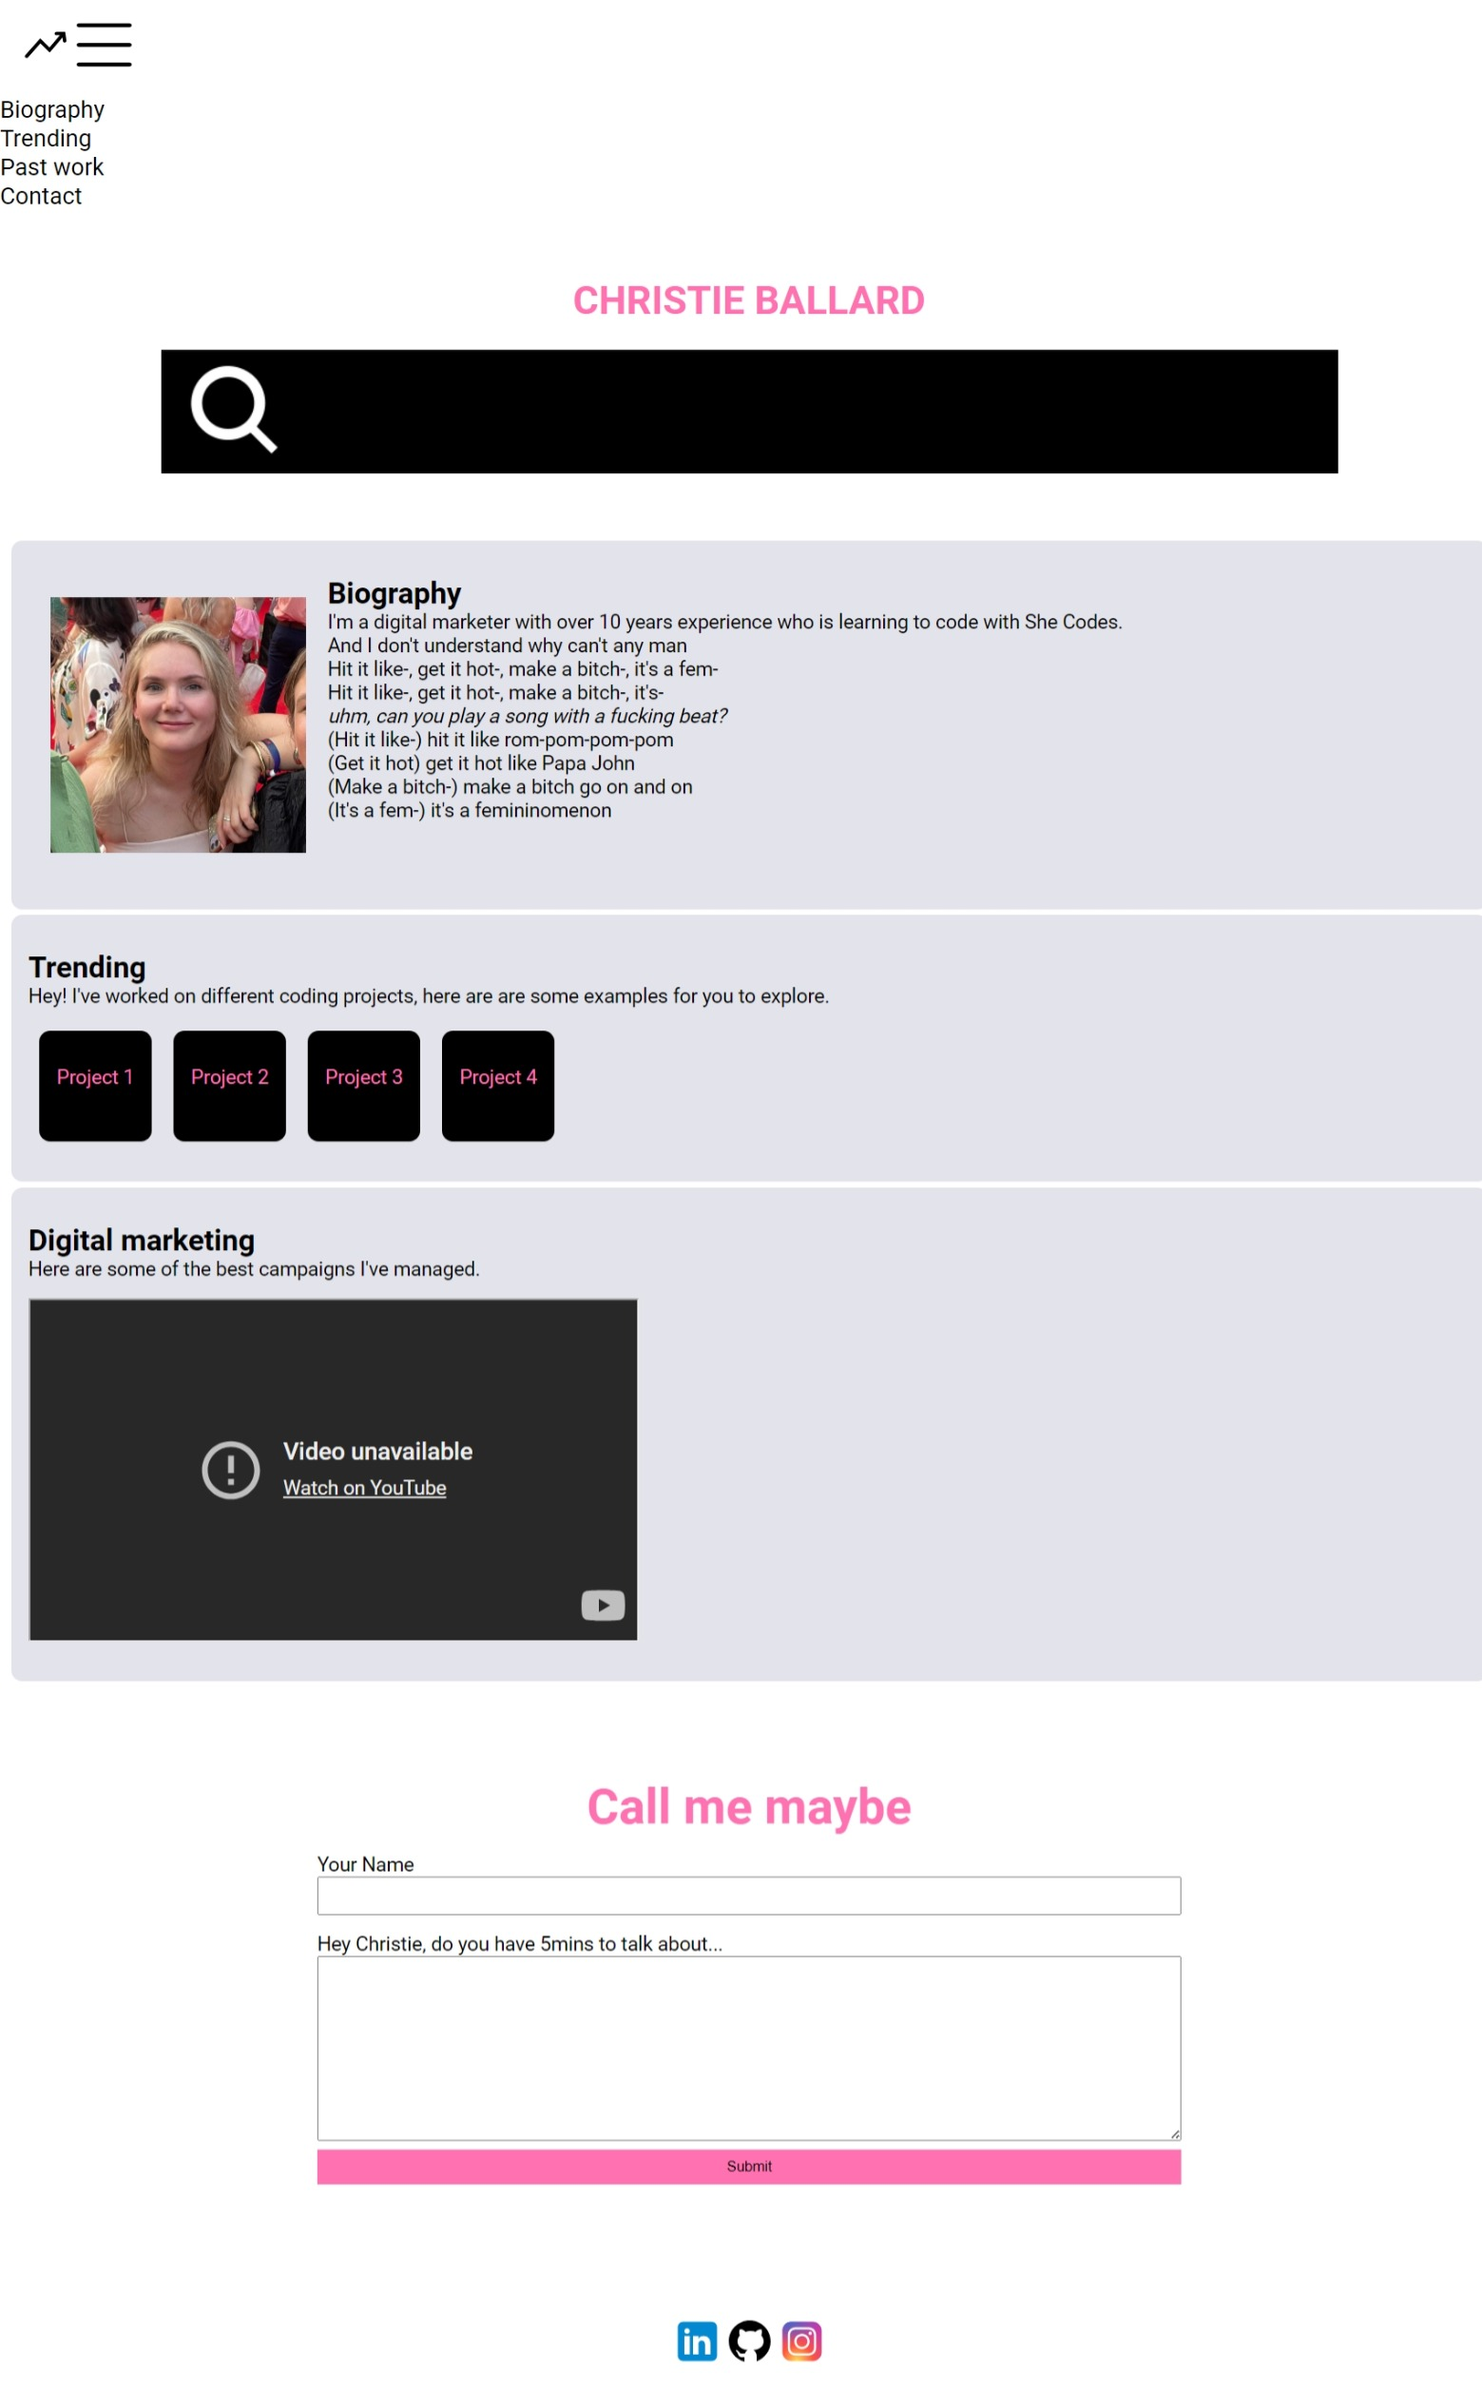
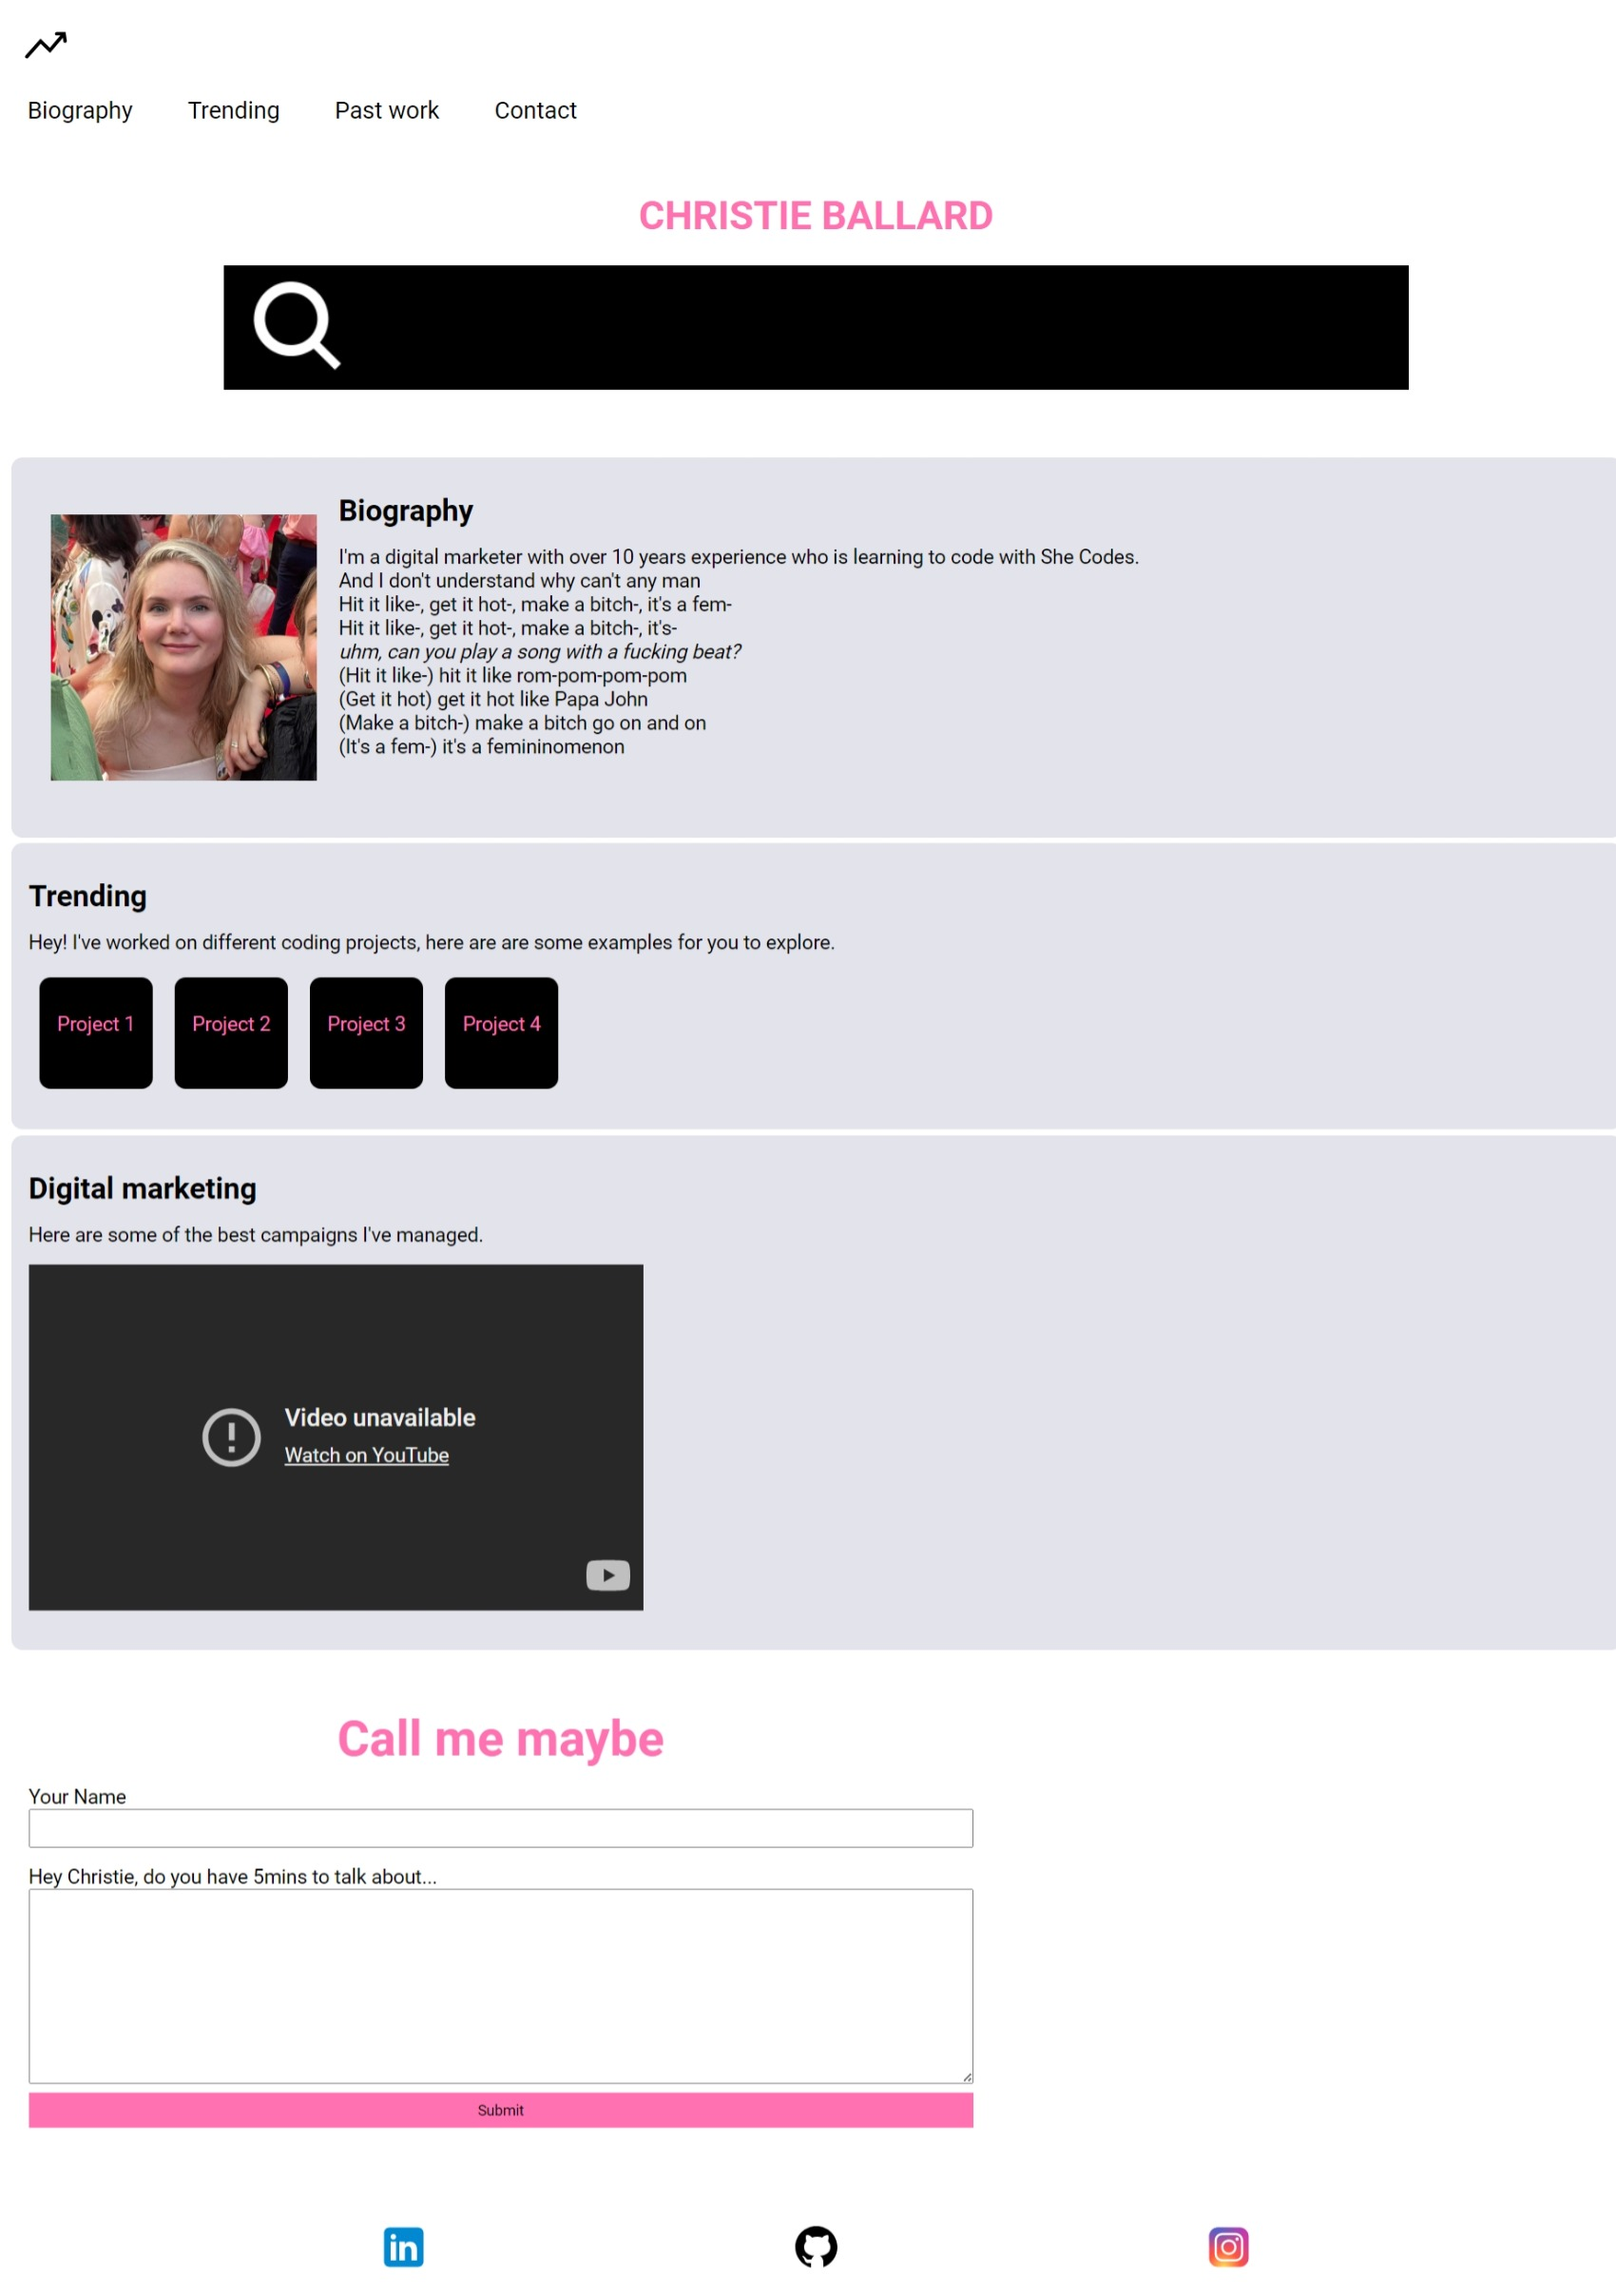
updated things I broek and other things I fixed. HTML, CSS and Readme

diff --git a/style.css b/style.css
@@ -1,6 +1,7 @@
 /* .icon {
-
+   // Add styles if needed
 } */
+
 footer a {
    text-decoration: none;
 }
@@ -19,7 +20,6 @@ footer a {
 }
 
 /* CSS Reset */
-
 html {
    box-sizing: border-box;
    font-size: 18px;
@@ -40,7 +40,7 @@ h3,
 h4,
 h5,
 h6 {
-   font-family: Roboto, bold,
+   font-family: Roboto, sans-serif; /* Corrected font-family */
 }
 
 body,
@@ -53,7 +53,7 @@ h6,
 p,
 ol,
 ul {
-   margin: 0%;
+   margin: 0;
    padding: 0;
 }
 
@@ -71,11 +71,10 @@ input,
 button,
 textarea,
 select {
-   font: Roboto;
+   font-family: Roboto; /* Corrected font property */
 }
 
 /* Utilities */
-
 .display-none {
    display: none;
 }
@@ -94,8 +93,8 @@ select {
 }
 
 .btn-primary:hover {
-   box-shadow: 10px 5px 5px rgba (0, 0, 0, 0.2);
-   transform: translateY(-4px)
+   box-shadow: 10px 5px 5px rgba(0, 0, 0, 0.2); /* Fixed syntax error */
+   transform: translateY(-4px);
 }
 
 /* header */
@@ -120,9 +119,94 @@ header button {
    padding: 4px 16px;
 }
 
-/* .desktop-nav */
-.desktop-nav {
+/* Hide the default checkbox */
+.hamburger-toggle {
    display: none;
+}
+
+/* Style the hamburger icon */
+.hamburger-icon {
+   display: none; 
+   cursor: pointer;
+}
+
+/* Desktop Navigation Styles */
+.desktop-nav {
+   display: flex; 
+   justify-content: space-around; 
+   align-items: center; 
+   padding: 0; 
+   margin: 0; 
+}
+
+.desktop-nav ul {
+   display: flex; 
+   padding: 0;
+   margin: 0;
+   list-style: none; 
+}
+
+.desktop-nav li {
+   margin: 0 10px; 
+}
+
+.desktop-nav a {
+   text-decoration: none;
+   color: var(--black);
+   font-size: 1rem; 
+   padding: 10px 15px; 
+}
+
+/* Mobile Navigation Styles */
+.mobile-nav {
+   display: none; 
+   position: absolute;
+   top: 60px; 
+   left: 0;
+   right: 0;
+   background-color: var(--white); 
+   padding: 16px;
+   box-shadow: 0px 4px 6px rgba(0, 0, 0, 0.1); 
+}
+
+.mobile-nav a {
+   display: block; 
+   padding: 12px 16px; 
+   color: var(--hot-pink); 
+}
+
+/* Toggle the mobile menu visibility when the checkbox is checked */
+.hamburger-toggle:checked + .mobile-nav {
+   display: block;
+}
+
+/* Show the hamburger icon and hide desktop nav on mobile */
+@media (max-width: 767px) {
+   .desktop-nav {
+      display: none; 
+   }
+
+   .hamburger-icon {
+      display: block; 
+   }
+}
+
+/* Add styles for article section */
+article {
+   padding: 32px 16px;
+   background-color: var(--light-grey);
+   border-radius: 10px;
+   margin: 5px 10px;
+   transition: all 0.3s ease;
+}
+
+article h2 {
+   margin-bottom: 16px;
+   color: var(--black);
+}
+
+article p {
+   margin-bottom: 16px;
 }
 
 @media (min-width: 768px) {
@@ -133,13 +217,36 @@ header button {
    }
 
    .desktop-nav {
-      display: inline-block;
+      display: inline-flex;
    }
-}
 
-/* .hamburger-icon  */
-.hamburger-icon {
-   height: 50px;
+   .hero {
+      padding: 120px 56px;
+   }
+
+   .hero h1 {
+      font-size: 3.5rem;
+      max-width: 70%;
+   }
+
+   .contact-form {
+      max-width: 60%;
+      margin: 40px auto;
+   }
+
+   .contact-form h2 {
+      text-align: center;
+      font-size: 2.5rem;
+   }
+
+   footer {
+      justify-content: center;
+   }
+
+   footer .socials-icon {
+      margin-left: 20px;
+      margin-right: 20px;
+   }
 }
 
 /* .hero */
@@ -150,7 +257,6 @@ header button {
    margin: 5px 10px;
    display: flex;
    flex-direction: column;
-   flex-wrap: nowrap;
    align-content: center;
    justify-content: center;
    align-items: center;
@@ -160,31 +266,18 @@ header button {
    font-size: 2rem;
    margin-bottom: 24px;
    color: var(--hot-pink);
-
 }
 
 .hero .hero-accent {
    color: var(--light-grey);
 }
 
-@media (min: width 768px) {
-   .hero {
-      padding: 120px 56px;
-   }
-
-   .hero h1 {
-      font-size: 3.5rem;
-      max-width: 70%;
-   }
-}
-article {
-   padding: 32px 16px;
-   background-color: var(--light-grey);
-   border-radius: 10px;
-   margin: 5px 10px;
-   transition: all 0.3s ease;
+/* .hamburger-icon  */
+.hamburger-icon {
+   height: 50px;
 }
 
+/* Biography Section */
 .Biography {
    display: flex;
 }
@@ -198,7 +291,6 @@ article {
 article:hover {
    filter: contrast(80%);
 }
-
 
 article .icon {
    height: 24px;
@@ -216,10 +308,6 @@ article .article-heading h2 {
    margin-bottom: 16px;
    color: var(--black);
    text-decoration: none;
-}
-
-article p {
-   margin-bottom: 16px;
 }
 
 .project-tiles {
@@ -269,18 +357,6 @@ article p {
    cursor: pointer;
 }
 
-@media (min-width: 768px) {
-   .contact-form h2 {
-      text-align: center;
-      font-size: 2.5rem;
-   }
-
-   .contact-form {
-      max-width: 60%;
-      margin: 40px auto;
-   }
-}
-
 /* footer */
 footer {
    padding: 16px;
@@ -292,15 +368,4 @@ footer {
 .socials-icon {
    width: 40px;
    height: 40px;
-}
-
-@media (min-width: 768px) {
-footer {
-   justify-content: center;
-}
-
-footer .socials-icon {
-   margin-left: 20px;
-   margin-right: 20px;
-}
 }

diff --git a/index.html b/index.html
@@ -16,37 +16,38 @@
             <button type="button" class="hamburger-button">
                 <img class="hamburger-icon" src="./images/Icons/hamburger.svg"
                     alt="Three horizontal lines, positioned one above the other." />
+                    <input type="checkbox" id="hamburger-toggle" class="hamburger-toggle">
             </button>
         </div>
         <nav class="desktop-nav" aria-label="Primary">
             <ul>
                 <li>
-                    <a href="">Biography</a>
+                    <a href="#">Biography</a>
                 </li>
                 <li>
-                    <a href="">Trending</a>
+                    <a href="#">Trending</a>
                 </li>
                 <li>
-                    <a href="">Past work</a>
+                    <a href="#">Past work</a>
                 </li>
                 <li>
-                    <a href="">Contact</a>
+                    <a href="#">Contact</a>
                 </li>
             </ul>
         </nav>
         <nav class="mobile-nav display-none" aria-label="Primary">
             <ul>
                 <li>
-                    <a href="">Biography</a>
+                    <a href="#">Biography</a>
                 </li>
                 <li>
-                    <a href="">Trending</a>
+                    <a href="#">Trending</a>
                 </li>
                 <li>
-                    <a href="">Past work</a>
+                    <a href="#">Past work</a>
                 </li>
                 <li>
-                    <a href="">Contact</a>
+                    <a href="#">Contact</a>
                 </li>
             </ul>
         </nav>
@@ -91,14 +92,16 @@
             </article>
         </div>
         </article>
-        <article>
+        <section class="articles-container">
+            <article>
             <h2>Digital marketing</h2>
             <p>
                 Here are some of the best campaigns I've managed. 
             </p>
-            <iframe width="560" height="315" src="https://www.youtube.com/embed/7u3kwQIUszE?si=U9HjwlTUvf34gOpB"></iframe>
-        </article>
-    </section>
+    <iframe width="560" height="315" src="https://www.youtube.com/embed/7u3kwQIUszE?si=Mh6r7tMZVQpZiXiF" title="YouTube video player" frameborder="0" allow="accelerometer; autoplay; clipboard-write; encrypted-media; gyroscope; picture-in-picture; web-share" referrerpolicy="strict-origin-when-cross-origin" allowfullscreen></iframe>
+</article>
+
+</section>
      <section class="contact-form">
              <h2>Call me maybe</h2>
              <form>

diff --git a/Project.html b/Project.html
@@ -1,0 +1,10 @@
+<!DOCTYPE html>
+<html lang="en">
+
+<head>
+    <meta charset="UTF-8">
+    <meta http-equiv="X-UA-Compatible" content="IE=edge">
+    <meta name="viewport" content="width=device-width, initial-scale=1.0">
+    <title>ChristieBallard</title>
+    <link rel="stylesheet" href="style.css">
+</head>

diff --git a/README.md b/README.md
@@ -41,4 +41,8 @@ The colour changes in each section from a lighter grey to a darker one when you 
 > You can do this by saving the images in a folder in your repo, and including them in your readme document with the following Markdown code: 
 
 ####  image_title_goes_here 
-![Put a description of your image here](./relative_path_to_file)
+
+Website full screen
+[full screen] src="./Images/Website-screen-shots/website-full-screen.jpg"
+[half screen] src="./Images/Website-screen-shots/website-half-screen.jpg"
+[narrow screen] src="./Images/Website-screen-shots/website-narrow.jpg"
